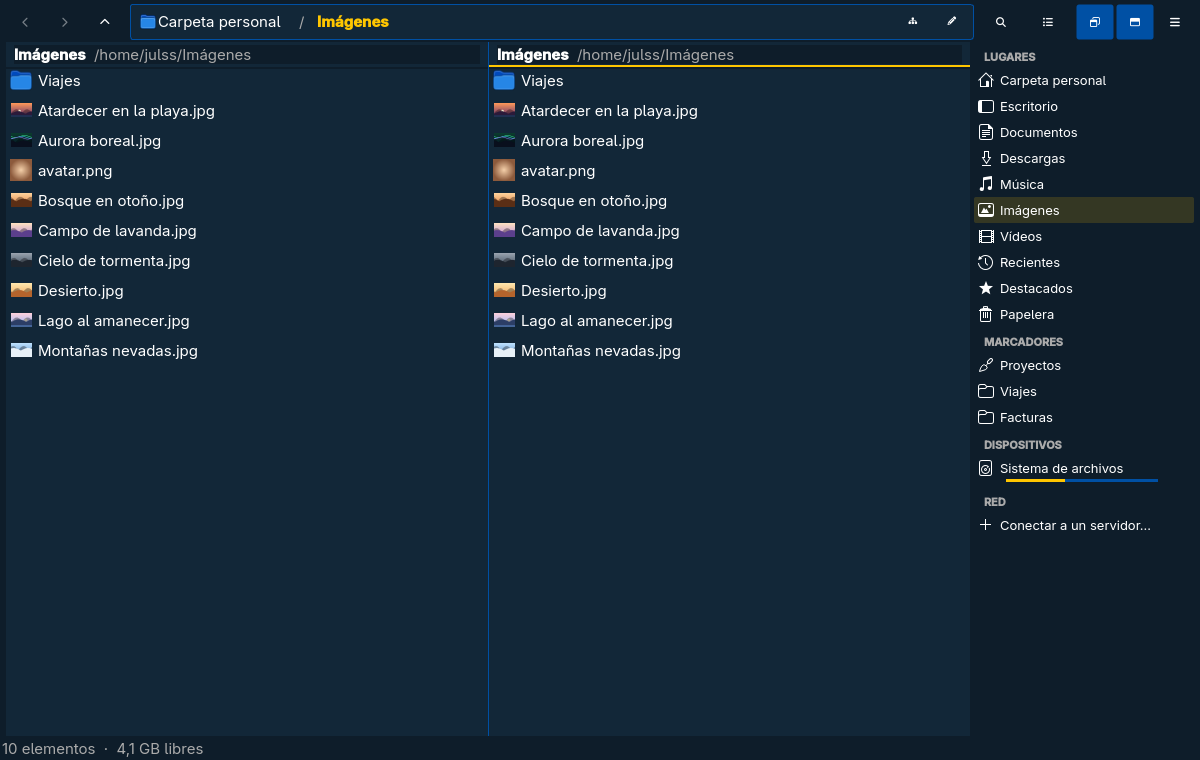
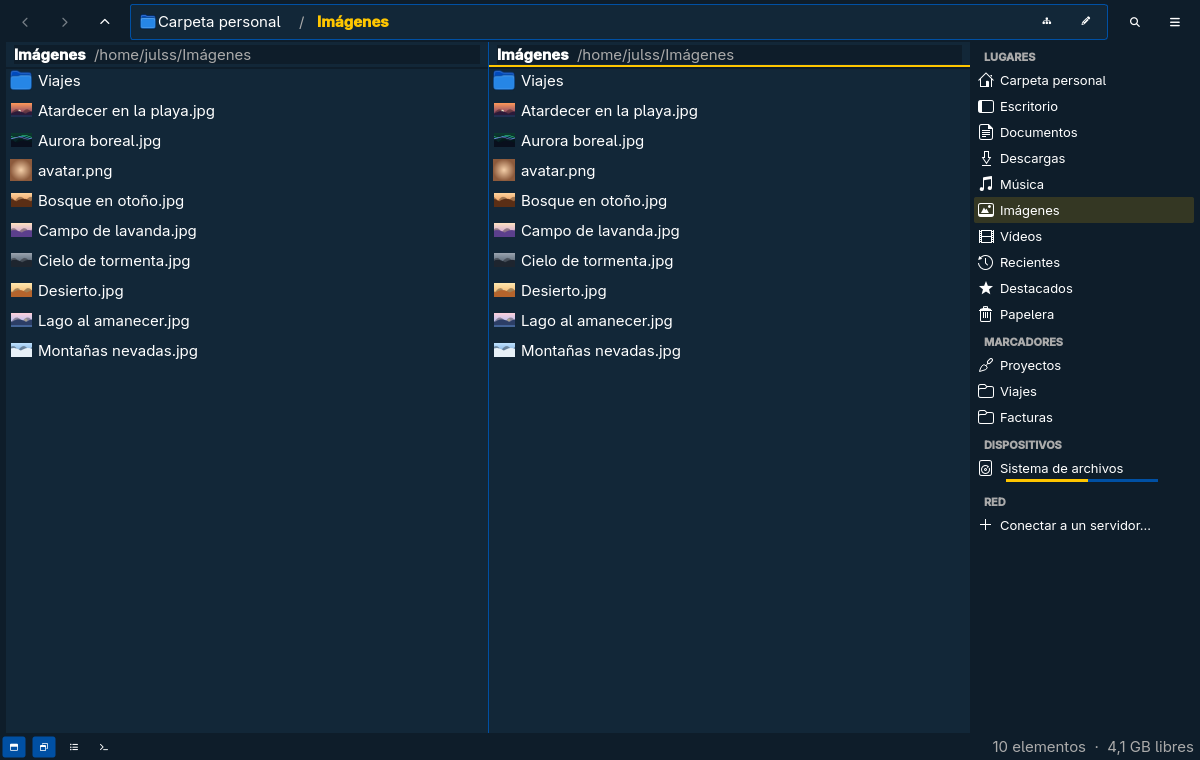
README: capturas al día y de lo nuevo
Rehechas con la carpeta personal de ejemplo y el tema Cobalt2: iconos,
lista detallada, columnas, vista dividida y ajustes con la interfaz actual,
y nuevas de la portada de un Word, un comprimido en árbol, el menú Git, el
diálogo de cifrar y el terminal integrado.

- LUNA_TOUR: hook de capturas para esas funciones (guarda la geometría de
  cada ventana para componerla sobre la principal).
- LUNA_SHOTS ya no abre la foto de Propiedades como pestaña.
- Iconos propios para historial, añadir, confirmar, rama, cifrar y
  descifrar (el historial salía con «?»).

diff --git a/src/main.cpp b/src/main.cpp
@@ -2,6 +2,9 @@
 #include "fsmodel.h"
 #include "gitmenu.h"
 #include <QMenu>
+#include <QToolButton>
+#include <QRadioButton>
+#include <QKeyEvent>
 #include "i18n.h"
 #include "icons.h"
 #include "thumbs.h"
@@ -155,7 +158,8 @@ int main(int argc, char **argv)
     };
     app.installEventFilter(new SmoothScroll(&app));   // before any object filter (Ctrl+wheel zoom passes through)
     if (qEnvironmentVariableIsSet("LUNA_DEBUG_META")) app.installEventFilter(new MetaCallLogger);
-    auto *w = new MainWindow(paths);
+    // LUNA_SHOTS takes a photo for Propiedades as second argument: not a tab
+    auto *w = new MainWindow(qEnvironmentVariableIsSet("LUNA_SHOTS") ? paths.mid(0, 1) : paths);
     w->setAttribute(Qt::WA_DeleteOnClose);
     w->show();
     for (const QString &uri : remotes) QTimer::singleShot(0, w, [w, uri] { w->connectServer(uri); });
@@ -558,6 +562,120 @@ int main(int argc, char **argv)
                 QTimer::singleShot(400, c, [=] { shot(c, "10-conectar"); c->close(); qApp->quit(); });
             });
         });
+    }
+    // README screenshots of the newer features: LUNA_TOUR=<dir> with
+    // LUNA_TOUR_DOC (Office file), LUNA_TOUR_ZIP (archive), LUNA_TOUR_GIT (a
+    // changed file in a repository), LUNA_TOUR_CRYPT (what to encrypt) and
+    // LUNA_TOUR_TERM (a command for the docked terminal). Saves the windows
+    // and geom.txt (name x y w h) so they can be put over the main window.
+    if (qEnvironmentVariableIsSet("LUNA_TOUR")) {
+        const QString dir = qEnvironmentVariable("LUNA_TOUR");
+        auto geom = std::make_shared<QFile>(dir + "/geom.txt");
+        if (!geom->open(QIODevice::WriteOnly | QIODevice::Text)) qWarning("LUNA_TOUR: cannot write %s", qPrintable(geom->fileName()));
+        auto shot = [dir, geom](QWidget *x, const QString &n) {
+            x->grab().save(dir + "/" + n + ".png");
+            const QRect g = x->isWindow() ? x->geometry() : QRect(x->mapTo(x->window(), QPoint()), x->size());
+            geom->write(QString("%1 %2 %3 %4 %5\n").arg(n).arg(g.x()).arg(g.y()).arg(g.width()).arg(g.height()).toUtf8());
+            geom->flush();
+        };
+        auto steps = std::make_shared<QList<std::function<void(std::function<void()>)>>>();
+        auto preview = [=](const QString &file, const QString &name, int wait) {
+            steps->append([=](std::function<void()> next) {
+                if (file.isEmpty()) return next();
+                w->pane()->setPath(QFileInfo(file).absolutePath(), true, {file});
+                QTimer::singleShot(1500, w, [=] {
+                    shot(w, name + "-fondo");
+                    auto *pv = new Preview(file, {}, w);
+                    pv->show();
+                    QTimer::singleShot(wait, w, [=] {
+                        shot(pv, name);
+                        pv->close();
+                        next();
+                    });
+                });
+            });
+        };
+        preview(qEnvironmentVariable("LUNA_TOUR_DOC"), "word", 9000);
+        preview(qEnvironmentVariable("LUNA_TOUR_ZIP"), "zip", 2000);
+        const QString gitFile = qEnvironmentVariable("LUNA_TOUR_GIT");
+        if (!gitFile.isEmpty())
+            steps->append([=](std::function<void()> next) {
+                w->pane()->setPath(QFileInfo(gitFile).absolutePath(), true, {gitFile});
+                QTimer::singleShot(2000, w, [=] {
+                    QAbstractItemView *v = nullptr;
+                    for (auto *x : w->pane()->findChildren<QAbstractItemView *>())
+                        if (x->isVisible()) v = x;
+                    if (!v) return next();
+                    QModelIndex at;
+                    for (int r = 0; r < v->model()->rowCount(v->rootIndex()); ++r) {
+                        const QModelIndex ix = v->model()->index(r, 0, v->rootIndex());
+                        if (ix.data().toString() == QFileInfo(gitFile).fileName()) at = ix;
+                    }
+                    const QPoint pos = v->visualRect(at).center() + QPoint(40, 0);
+                    QTimer::singleShot(500, w, [=] {
+                        auto *menu = qobject_cast<QMenu *>(QApplication::activePopupWidget());
+                        if (!menu) return;
+                        for (QAction *a : menu->actions())
+                            if (a->text() == "Git") menu->setActiveAction(a);
+                        QTimer::singleShot(600, w, [=] {
+                            shot(w, "git-fondo");
+                            shot(menu, "menu");
+                            if (QAction *a = menu->activeAction(); a && a->menu()) shot(a->menu(), "git");
+                            menu->close();
+                            QTimer::singleShot(300, w, next);
+                        });
+                    });
+                    emit v->customContextMenuRequested(pos);
+                });
+            });
+        const QString crypt = qEnvironmentVariable("LUNA_TOUR_CRYPT");
+        if (!crypt.isEmpty())
+            steps->append([=](std::function<void()> next) {
+                w->pane()->setPath(QFileInfo(crypt).absolutePath(), true, {crypt});
+                QTimer::singleShot(1200, w, [=] {
+                    shot(w, "cifrar-fondo");
+                    QTimer::singleShot(800, w, [=] {
+                        auto *d = qobject_cast<QDialog *>(QApplication::activeModalWidget());
+                        if (!d) return;
+                        for (auto *r : d->findChildren<QRadioButton *>())   // the keys are listed when this is picked
+                            if (r->text() == i18n("Para estas personas (con sus claves públicas)")) r->click();
+                        QTimer::singleShot(1500, d, [=] {
+                            shot(d, "cifrar");
+                            d->reject();
+                        });
+                    });
+                    Crypto::encryptDialog(w, {crypt}, QFileInfo(crypt).absolutePath(), [](bool, const QString &, const QString &) {});
+                    QTimer::singleShot(300, w, next);
+                });
+            });
+        const QString term = qEnvironmentVariable("LUNA_TOUR_TERM");
+        if (!term.isEmpty())
+            steps->append([=](std::function<void()> next) {
+                if (!gitFile.isEmpty()) w->pane()->setPath(QFileInfo(gitFile).absolutePath());
+                for (auto *b : w->findChildren<QToolButton *>())
+                    if (b->toolTip() == i18n("Terminal (F4)") && !b->isChecked()) b->click();
+                QTimer::singleShot(2500, w, [=] {
+                    for (auto *t : w->findChildren<QWidget *>())
+                        if (t->inherits("Terminal")) {
+                            for (const QChar c : term) {
+                                QKeyEvent k(QEvent::KeyPress, 0, Qt::NoModifier, QString(c));
+                                QCoreApplication::sendEvent(t, &k);
+                            }
+                            QKeyEvent enter(QEvent::KeyPress, Qt::Key_Return, Qt::NoModifier, "\r");
+                            QCoreApplication::sendEvent(t, &enter);
+                        }
+                    QTimer::singleShot(2000, w, [=] {
+                        shot(w, "terminal");
+                        next();
+                    });
+                });
+            });
+        auto run = std::make_shared<std::function<void(int)>>();
+        *run = [steps, run](int i) {
+            if (i >= steps->size()) return qApp->quit();
+            (*steps)[i]([run, i] { QTimer::singleShot(0, qApp, [run, i] { (*run)(i + 1); }); });
+        };
+        QTimer::singleShot(1500, w, [run] { (*run)(0); });
     }
     const int rc = app.exec();
     FsModel::shutdown();

diff --git a/src/gitmenu.cpp b/src/gitmenu.cpp
@@ -312,7 +312,7 @@ void add(QMenu *menu, QWidget *parent, const QString &root, const QString &dir, 
                 showText(parent, i18n("Cambios en %1").arg(what), gitNow(root, QStringList{"diff", "HEAD", "--"} + rel));
             });
         if (untracked || worktree || conflict)
-            g->addAction(ic.ui("newfolder"), i18n("Añadir al índice (git add)"), parent,
+            g->addAction(ic.ui("plus"), i18n("Añadir al índice (git add)"), parent,
                          [=] { act(parent, root, QStringList{"add", "-A", "--"} + rel, i18n("Añadido al índice: %1").arg(what), status); });
         if (staged)
             g->addAction(ic.ui("back"), i18n("Quitar del índice"), parent,
@@ -339,7 +339,7 @@ void add(QMenu *menu, QWidget *parent, const QString &root, const QString &dir, 
             });
         }
         if (tracked) {
-            g->addAction(ic.ui("recent"), i18n("Historial…"), parent, [=] { historyDialog(parent, root, rel, status); });
+            g->addAction(ic.ui("history"), i18n("Historial…"), parent, [=] { historyDialog(parent, root, rel, status); });
             if (rel.size() == 1 && QFileInfo(paths[0]).isFile())
                 g->addAction(ic.ui("info"), i18n("Quién cambió cada línea (blame)"), parent, [=] {
                     showText(parent, i18n("Autoría de «%1»").arg(rel[0]), gitNow(root, {"blame", "--date=short", "--", rel[0]}));
@@ -364,7 +364,7 @@ void add(QMenu *menu, QWidget *parent, const QString &root, const QString &dir, 
 
     // the repository
     const QString branch = gitNow(root, {"branch", "--show-current"}).trimmed();
-    g->addAction(ic.ui("star"), i18n("Confirmar cambios (commit)…"), parent, [=] { commitDialog(parent, root, status); });
+    g->addAction(ic.ui("check"), i18n("Confirmar cambios (commit)…"), parent, [=] { commitDialog(parent, root, status); });
     if (!gitNow(root, {"remote"}).trimmed().isEmpty()) {   // nothing to pull from or push to otherwise
         g->addAction(ic.ui("back"), i18n("Traer cambios (pull)"), parent, [=] { act(parent, root, {"pull", "--ff-only"}, i18n("Traídos los cambios"), status); });
         g->addAction(ic.ui("forward"), i18n("Enviar cambios (push)"), parent, [=] {
@@ -386,7 +386,7 @@ void add(QMenu *menu, QWidget *parent, const QString &root, const QString &dir, 
         g->addAction(ic.ui("refresh"), i18n("Actualizar remotos (fetch)"), parent, [=] { act(parent, root, {"fetch", "--all", "--prune"}, i18n("Remotos actualizados"), status); });
     }
 
-    QMenu *branches = g->addMenu(ic.ui("split"), branch.isEmpty() ? i18n("Rama") : i18n("Rama: %1").arg(branch));
+    QMenu *branches = g->addMenu(ic.ui("branch"), branch.isEmpty() ? i18n("Rama") : i18n("Rama: %1").arg(branch));
     for (const QString &b : gitNow(root, {"branch", "--format=%(refname:short)"}).split('\n', Qt::SkipEmptyParts)) {
         QAction *a = branches->addAction(b, parent, [=] { act(parent, root, {"switch", b}, i18n("Ahora en la rama «%1»").arg(b), status); });
         a->setCheckable(true);
@@ -404,7 +404,7 @@ void add(QMenu *menu, QWidget *parent, const QString &root, const QString &dir, 
     if (!gitNow(root, {"stash", "list", "-n", "1"}).trimmed().isEmpty())
         g->addAction(i18n("Recuperar lo guardado (stash pop)"), parent, [=] { act(parent, root, {"stash", "pop"}, i18n("Cambios recuperados"), status); });
     g->addSeparator();
-    g->addAction(ic.ui("recent"), i18n("Historial del repositorio…"), parent, [=] { historyDialog(parent, root, {}, status); });
+    g->addAction(ic.ui("history"), i18n("Historial del repositorio…"), parent, [=] { historyDialog(parent, root, {}, status); });
     static const bool lazygit = !QStandardPaths::findExecutable("lazygit").isEmpty();
     if (lazygit) g->addAction(ic.ui("terminal"), i18n("Abrir lazygit"), parent, [dir] { openLazygit(dir); });
 }

diff --git a/src/pane.cpp b/src/pane.cpp
@@ -1732,8 +1732,8 @@ void Pane::contextMenu(const QPoint &pos, bool onItem)
             if (Crypto::haveGpg()) {
                 bool anyEncrypted = false;
                 for (const QString &x : sel) anyEncrypted |= Crypto::isEncrypted(x);
-                if (anyEncrypted) m.addAction(ic.ui("open"), i18n("Descifrar aquí"), this, &Pane::decryptSelection);
-                m.addAction(ic.ui("hidden"), i18n("Comprimir y cifrar…"), this, &Pane::encryptSelection);
+                if (anyEncrypted) m.addAction(ic.ui("unlock"), i18n("Descifrar aquí"), this, &Pane::decryptSelection);
+                m.addAction(ic.ui("lock"), i18n("Comprimir y cifrar…"), this, &Pane::encryptSelection);
             }
             m.addAction(ic.ui("star"), i18n("Crear enlace"), this, &Pane::createLink);
         }

diff --git a/src/icons.cpp b/src/icons.cpp
@@ -348,6 +348,7 @@ QIcon Icons::ui(const QString &name)
         {"trash", 0xF1F8}, {"info", 0xF05A}, {"open", 0xF07C}, {"lock", 0xF023}, {"star", 0xF005},
         {"restore", 0xF0E2}, {"network", 0xF0E8}, {"crumbs", 0xF0C1}, {"chevron", 0xF078}, {"hidden", 0xF070}, {"zoomin", 0xF00E}, {"zoomout", 0xF010}, {"cancel", 0xF05E},
         {"play", 0xF04B}, {"disk", 0xF0A0}, {"image", 0xF03E}, {"phone", 0xF10B}, {"git", 0xF1D3}, {"archive", 0xF187},
+        {"history", 0xF1DA}, {"plus", 0xF067}, {"check", 0xF00C}, {"unlock", 0xF09C}, {"branch", 0xF126},
     };
     QIcon icon = glyph(g.value(name, 0xF128), QColor());   // follows the theme when painted
     m_cache.insert(key, icon);

diff --git a/README.md b/README.md
@@ -12,14 +12,19 @@ escritorio. Lleva el nombre de Luna, una gata siamesa, que es también su icono.
 | Lista detallada | Vista dividida |
 |---|---|
 | ![Lista detallada con tamaño, tipo, fecha, permisos y propietario](docs/capturas/detallada.png) | ![Dos paneles en la misma ventana](docs/capturas/dividida.png) |
-| **Columnas** | **Conectar a un servidor** |
-| ![Vista de columnas](docs/capturas/columnas.png) | ![Diálogo de conexión SSH/SFTP, FTP, SMB y NFS](docs/capturas/conectar.png) |
+| **Vista previa: la portada de un Word** | **Un comprimido como árbol, sin extraerlo** |
+| ![Vista previa con la primera página de un documento de Word](docs/capturas/vista-previa.png) | ![Vista previa de un zip con sus carpetas en árbol](docs/capturas/comprimido.png) |
+| **Menú Git en un repositorio** | **Comprimir y cifrar, como Kleopatra** |
+| ![Botón derecho sobre un archivo modificado con el submenú Git](docs/capturas/git.png) | ![Diálogo de cifrar con contraseña o para claves públicas](docs/capturas/cifrar.png) |
+| **Terminal integrado (F4)** | **Columnas** |
+| ![Terminal abajo que sigue la carpeta, con git log](docs/capturas/terminal.png) | ![Vista de columnas](docs/capturas/columnas.png) |
 | **Metadatos de una foto (EXIF y GPS)** | **Permisos** |
 | ![Pestaña de metadatos en Propiedades](docs/capturas/metadatos.png) | ![Pestaña de permisos con casillas y valor octal](docs/capturas/permisos.png) |
+| **Conectar a un servidor** | **Ajustes** |
+| ![Diálogo de conexión SSH/SFTP, FTP, SMB y NFS](docs/capturas/conectar.png) | ![Ajustes](docs/capturas/ajustes.png) |
 
-![Ajustes](docs/capturas/ajustes.png)
-
-*Las capturas usan una carpeta personal de ejemplo y el tema Cobalt2 de Omarchy.*
+*Las capturas usan una carpeta personal de ejemplo (archivos, claves y repositorio
+inventados) y el tema Cobalt2 de Omarchy.*
 
 ## Qué hace
 
